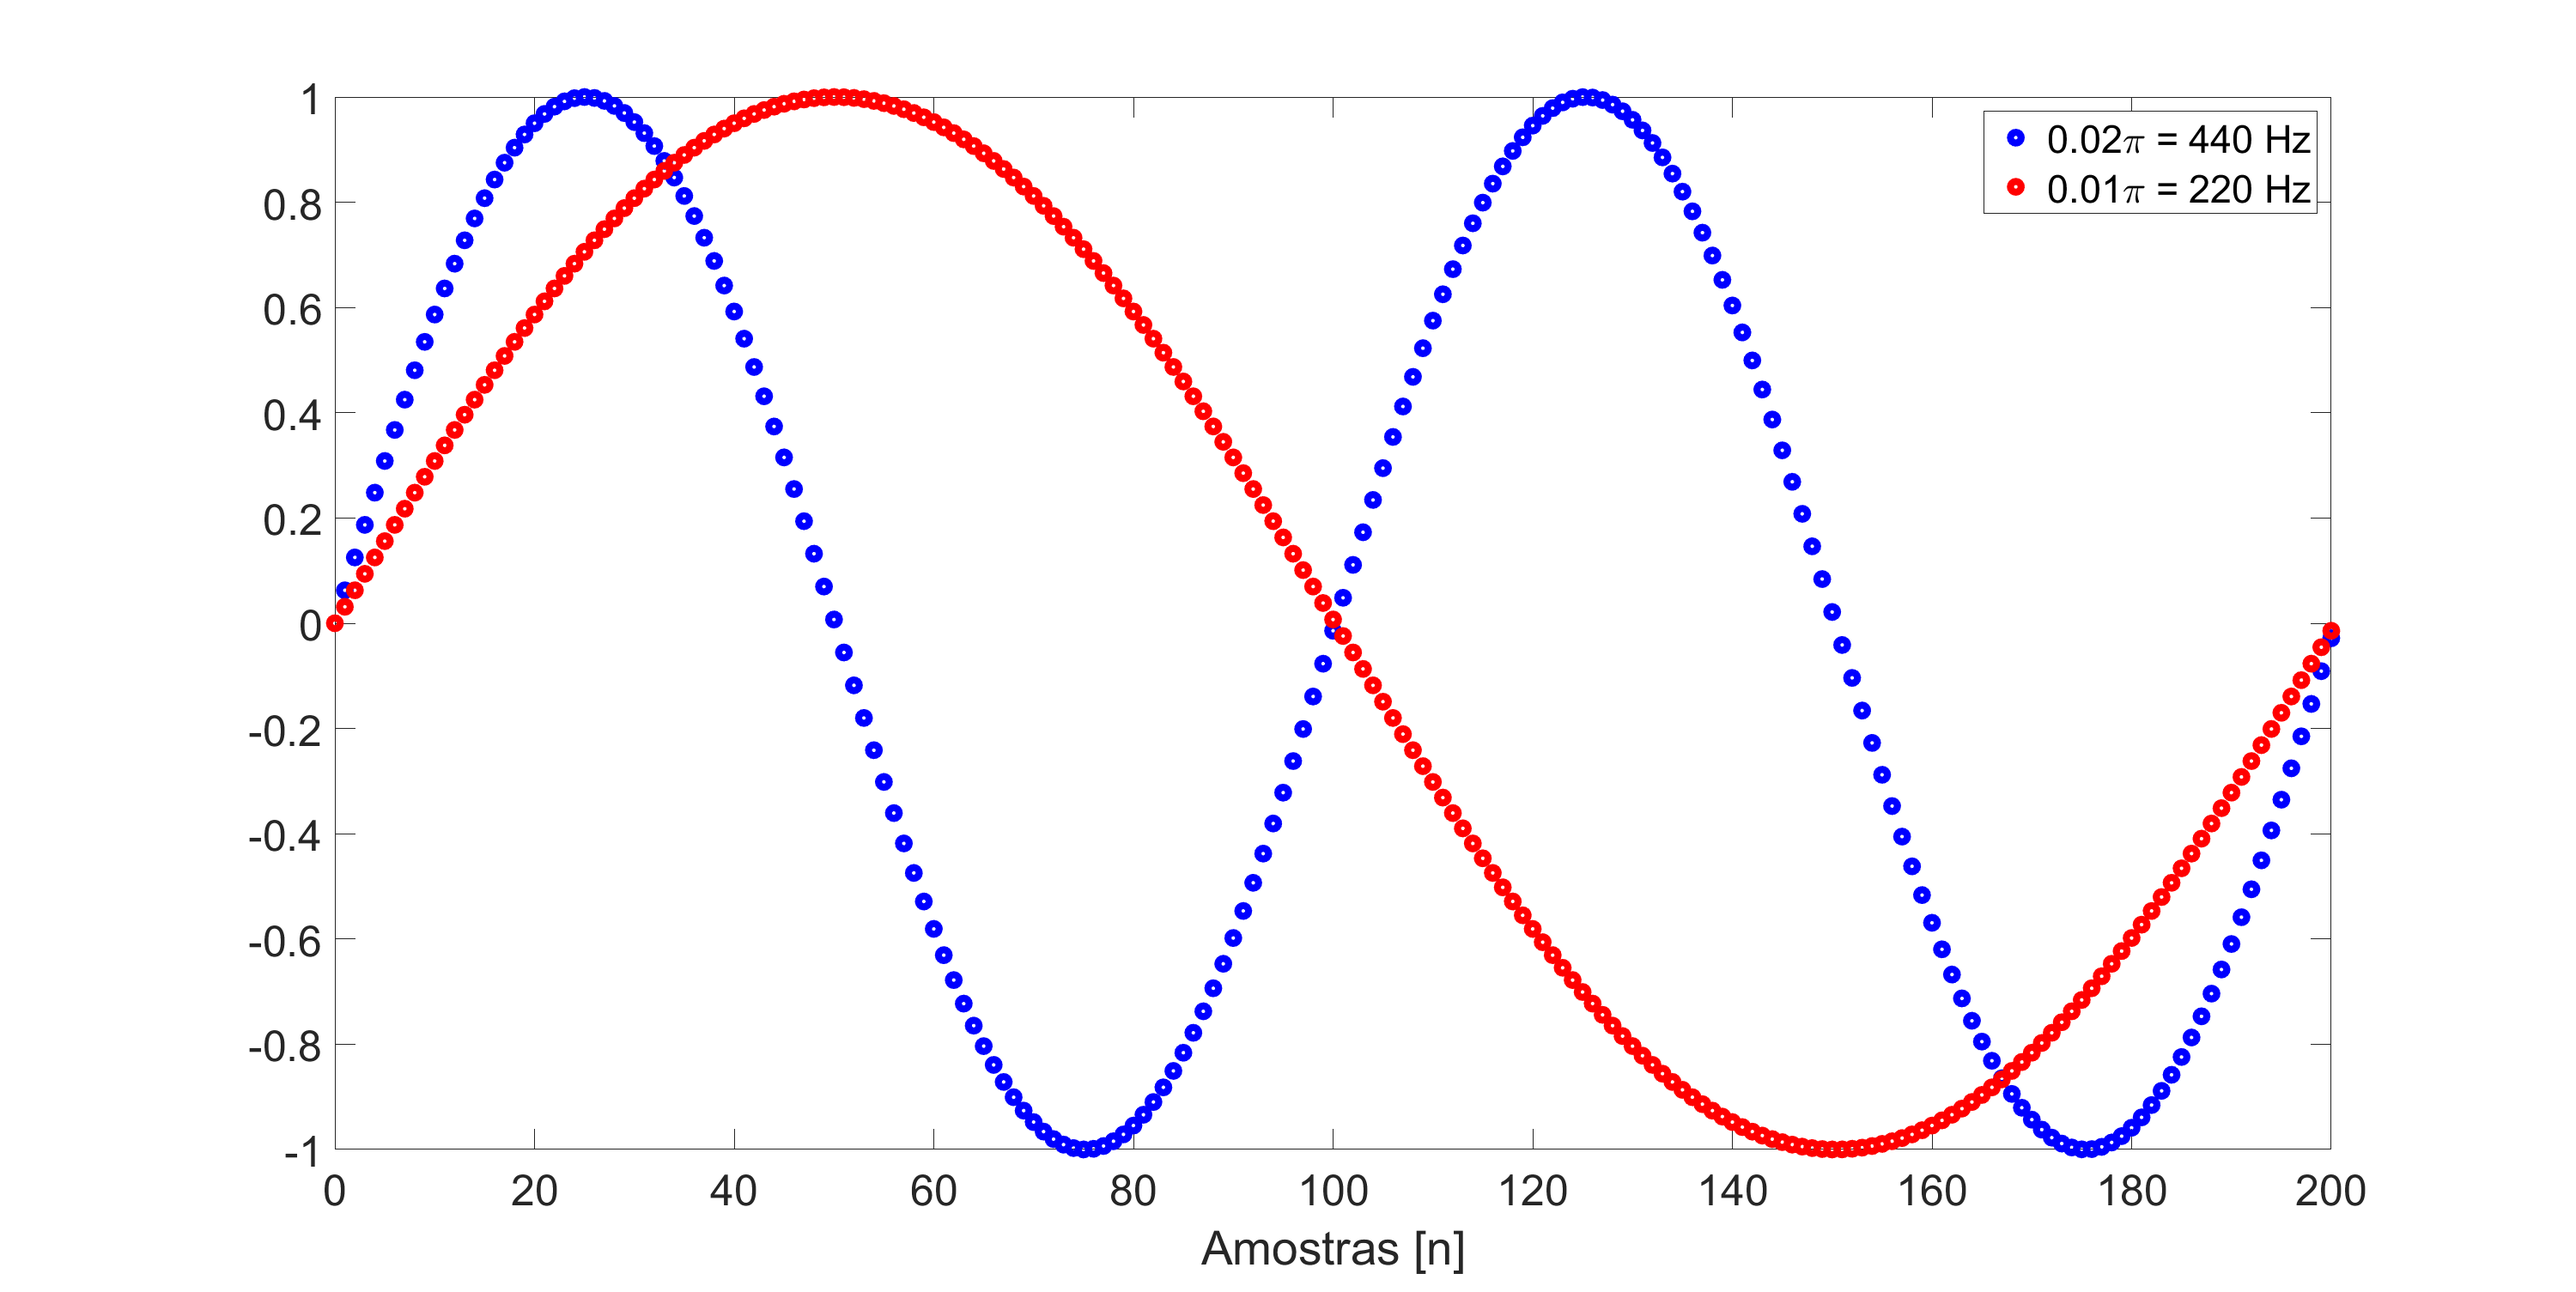
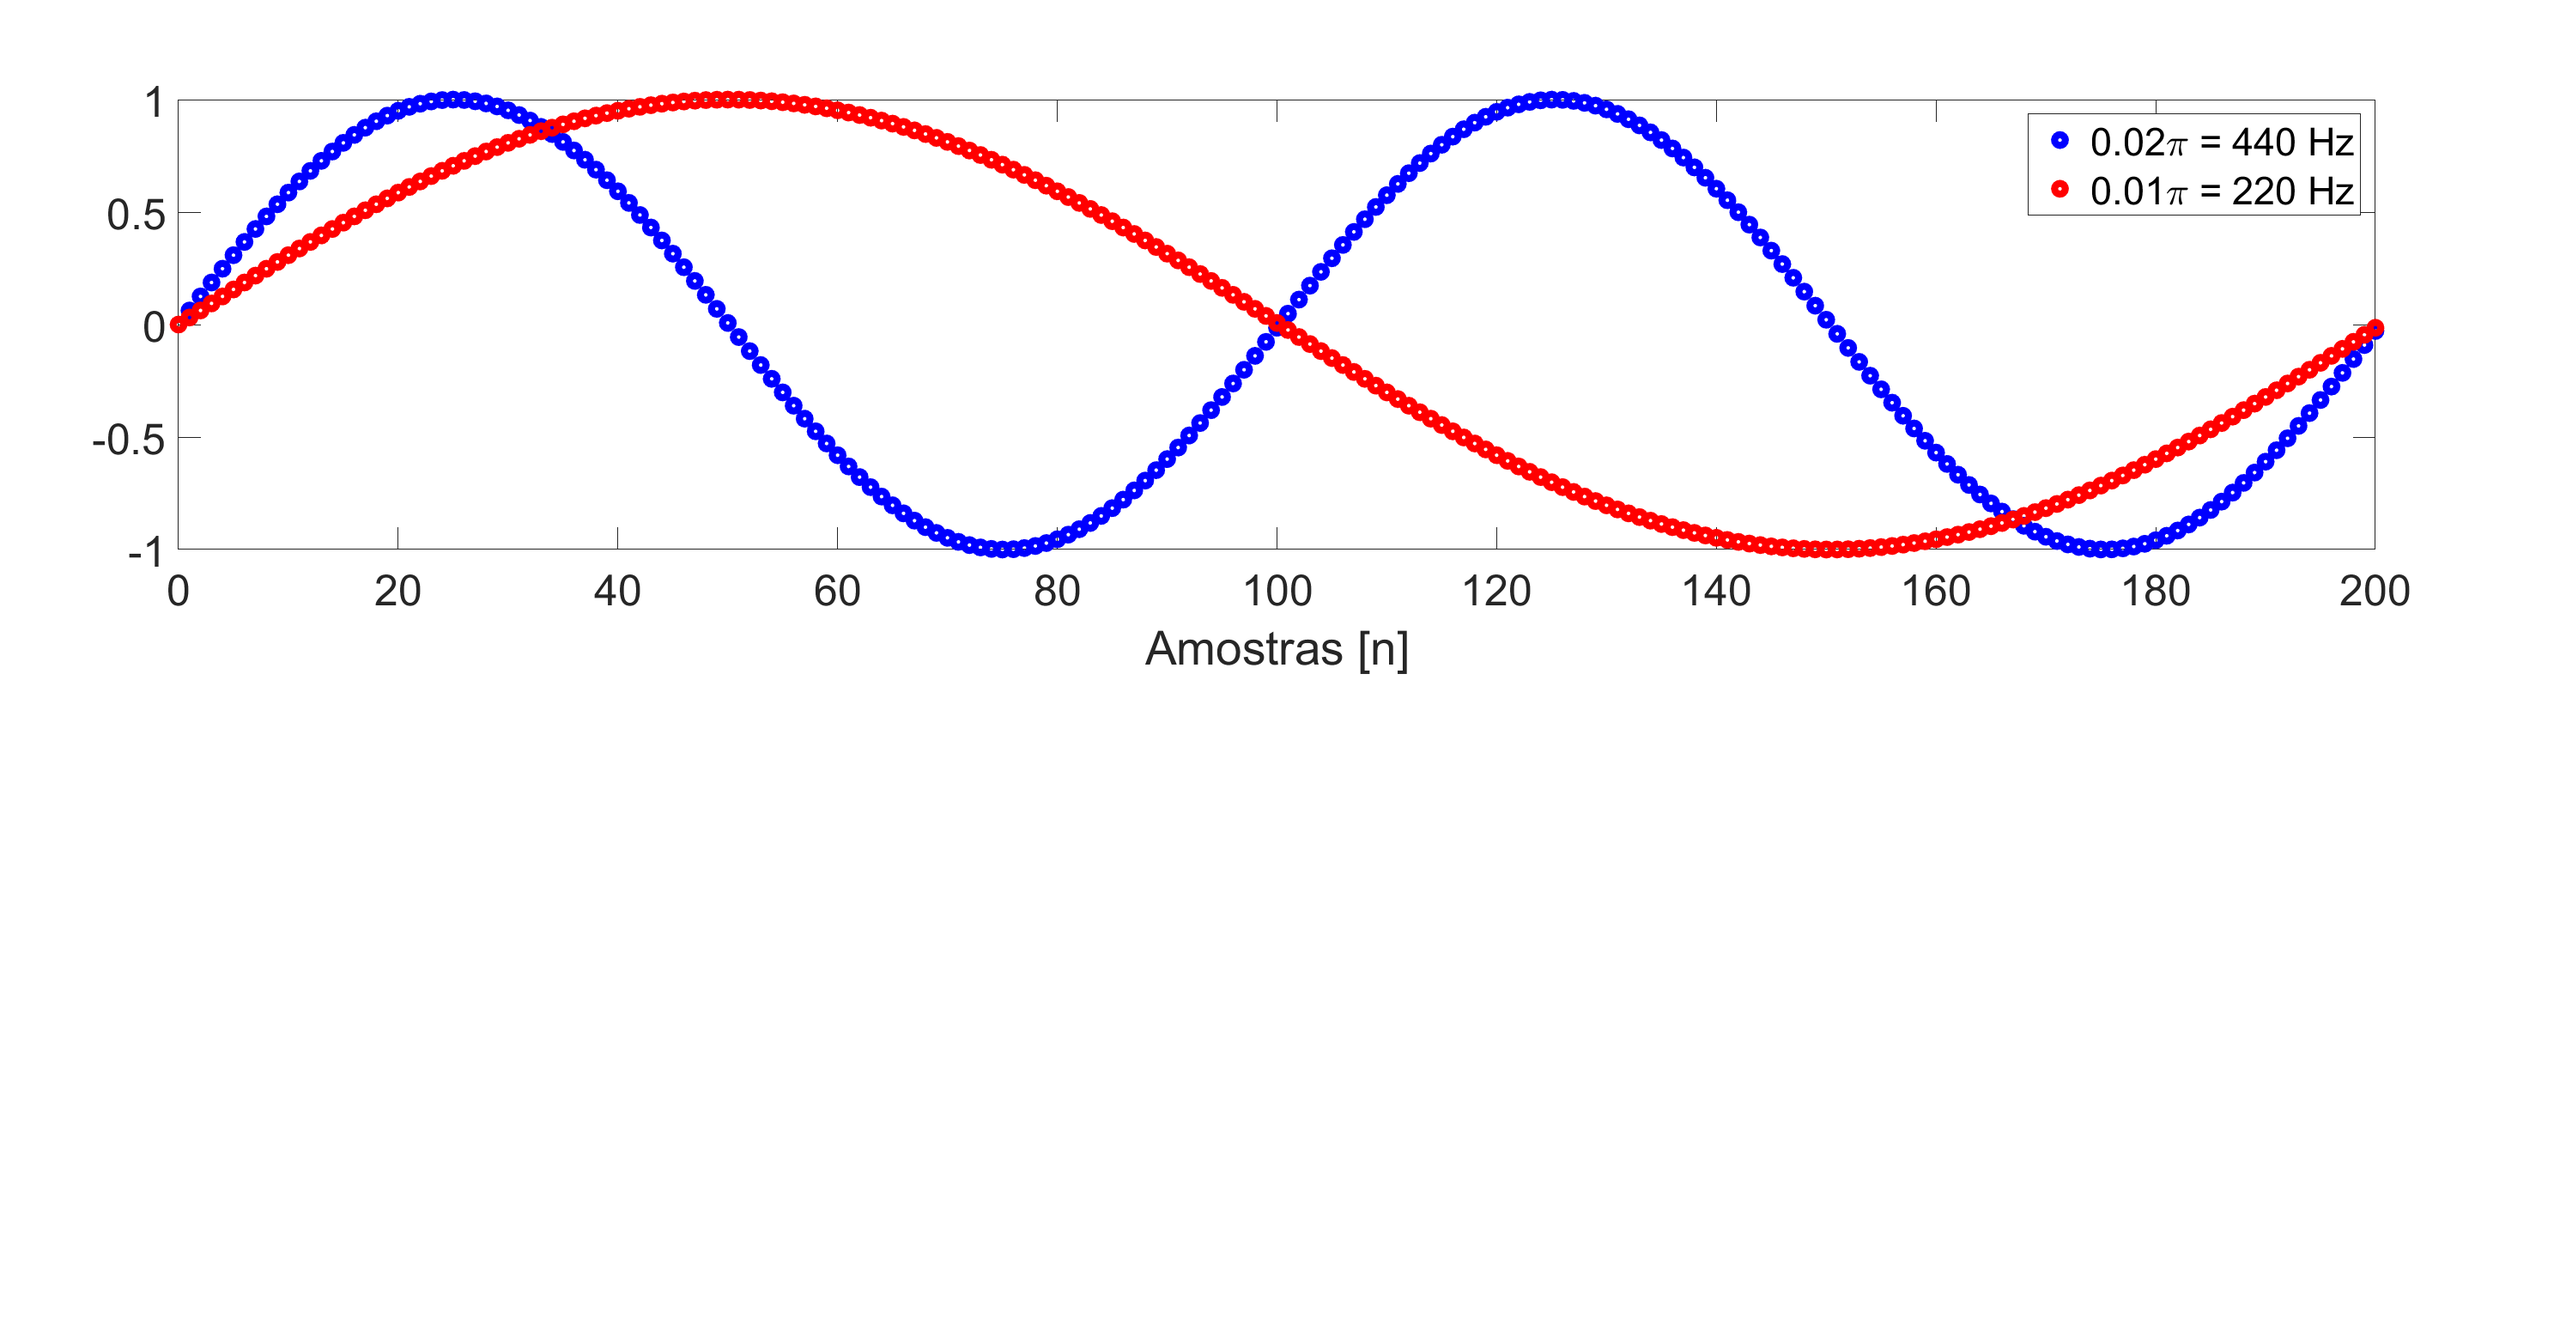
Avancos no exercico em sala de aula, cria o sinal e realiza a análise espectral

diff --git a/ExemploClasse/Aula_Sala.m b/ExemploClasse/Aula_Sala.m
@@ -1,0 +1,175 @@
+%%%Plot das imagens utilizadas nos slides%%%
+%% Configuracao do plot inicial
+% get(groot,'factory') % Exibe todas as propriedades
+set(groot, 'defaultLineLineWidth', 4);
+set(groot,'defaultLineMarkerSize', 6);
+set(groot,'defaultAxesFontSize',24);
+
+%% Síntese de senos - Exemplo 1
+fs = 44100;
+f1 = 440;
+f2 = 220;
+n = 0:1:200;
+y1 = sin(2*pi*f1/fs.*n);
+y2 = sin(2*pi*f2/fs.*n);
+
+figure(1)
+set(gcf, 'Units', 'Normalized', 'OuterPosition', [0 0 1 1]);
+clf()
+
+tiledlayout(2,1);
+nexttile
+plot(n,y1,'ob')
+hold 
+plot(n,y2,'or')
+xlabel("Amostras [n]")
+legend("0.02\pi = 440 Hz","0.01\pi = 220 Hz")
+saveas(gcf,'Imagens\sinal_introducao.png')
+
+nexttile
+plot(n,y1+y2,'ok')
+xlabel("Amostras [n]")
+
+
+%% Análise Espectral - Exemplo 2
+%Análise janela, número de amostras e número de pontos para o cálculo da
+%DTFT
+%Exemplo 1 - Número pequeno de amostras Aula - 5 Slide 18
+
+    n = (0:1:200); %Apresenta somente um período do sinal L = 200
+    sinal =  sin(2*pi*f1/fs.*n) + sin(2*pi*f2/fs.*n) ;
+    figure(2)
+    plot(sinal,'b')
+    legend("Dimensão do sinal 200")
+%Calculo da DTFT com 256 pontos
+    N_fft = 256;
+
+    X_axis_fs = (0:N_fft-1).* (fs/N_fft);
+    X_axis_wc = (0:N_fft-1).* (2/N_fft);
+    
+    Mag_resp = abs( fft( sinal.* hanning(length(sinal) )', N_fft) );
+    Mag_resp = Mag_resp/max(Mag_resp);
+    
+    figure(2);
+    set(gcf, 'Units', 'Normalized', 'OuterPosition', [0 0 1 1]);
+    
+    clf()
+    t = tiledlayout(1,1);
+    ax1 = axes(t);
+    plot(ax1,X_axis_wc,Mag_resp','ob')
+    hold 
+    axis([0,1000*2/fs,0,1])
+    %ylim([-0.1 1.1])
+    ax1.XAxisLocation = 'bottom';
+    xlabel("\omega")
+    
+    ax2 = axes(t);
+    plot(ax2,X_axis_fs,Mag_resp','or')
+    ax2.XAxisLocation = 'top';
+    ax2.YAxisLocation = 'right';
+    ax2.Color = 'none';
+    xlabel("frequências [Hz]")
+    title('DTFT')
+    axis([0,1000,0,1])
+
+% Aumento no número de pontos da DTFT, inserindo zeros no final do sinal,
+% aumento para 4096 pontos.
+    N_fft = 2^12;
+    
+    X_axis_fs = (0:N_fft-1).* (fs/N_fft);
+    
+    Mag_resp = abs( fft( sinal.* hanning(length(sinal) )', N_fft) );
+    Mag_resp = Mag_resp/max(Mag_resp);
+    
+    figure(2);
+    
+    clf()
+    title('DTFT')
+    plot(X_axis_fs,Mag_resp','or')
+    xlabel("frequências [Hz]")
+    axis([0,1000,0,1])
+    %Obs : Não conseguimos identificar corretamente as frequências do meu
+    %sinal f1 e f2, mesmo aumentando o número de pontos para o cálculo da
+    %DTFT. PROBLEMA - o comprimento do sinal está pequeno e está ocorrendo 
+    %o vazamento espectral, dessa forma, necessitamos gerar um sinal maior
+
+
+%Aumento no comprimento do sinal L de 200 para 800 
+    figure(3)
+    set(gcf, 'Units', 'Normalized', 'OuterPosition', [0 0 1 1]);
+
+    clf()
+    title('Sinal tempo discreto')
+    sinal =  sin(2*pi*f1/fs.*(0:200)) + sin(2*pi*f2/fs.*(0:200)) ;
+    plot(sinal','b')
+    pause(2)
+    for aux1 = 201:1:801
+        n = (0:1:aux1);
+        sinal(1,1:aux1+1)  =  sin(2*pi*f1/fs.*n) + sin(2*pi*f2/fs.*n) ;
+        plot(sinal,'b')
+        drawnow
+    end
+
+%Calculo da DTFT L = 800 N = 4096 amostras
+    N_fft = 2^12;
+    
+    X_axis_fs = (0:N_fft-1).* (fs/N_fft);
+    
+    Mag_resp = abs( fft( sinal.* hanning(length(sinal) )', N_fft) );
+    Mag_resp = Mag_resp/max(Mag_resp);
+    
+    figure(2);
+    
+    clf()
+    title('DTFT')
+    plot(X_axis_fs,Mag_resp','or')
+    xlabel("frequências [Hz]")
+    axis([0,1000,0,1])
+    %Espectro com 2 componentes em 220hz e 440hz
+%% Filtros - Exemplo 3
+%Calculo de um novo sinal com frequências 220, 330, 440, 550, 2000, 3500, 5000, 10000 e amplitudes
+%normalizadas de [.45 1 .75 .25, 2, 1, 2, 2] e duração de 2.5 s 
+    n = 0:1:fs*2.5; %fs*2.5 é um número inteiro, cuitado se o resultado não for 
+    freq_sinal = [220, 330, 440, 550, 1980, 2970, 4620, 10780];
+    mag_freq_sig = [.45 1 .75 .25, 4, 1, 2];
+    sinal = zeros(1,length(n));
+    for aux1 = 1:length(mag_freq_sig)
+        sinal = sinal + sin(2*pi*freq_sinal(aux1)/fs.*n).*mag_freq_sig(aux1);
+    end
+    sinal = sinal /max(sinal);
+
+    figure(1)
+    clf()
+    subplot(2,1,1)
+    title("Sinal no tempo")
+    stem(sinal,'ob')
+    axis([0,401,-1,1])
+    subplot(2,1,2)
+    title("Sinal no tempo")
+    plot(sinal)
+    axis([0,401,-1,1])
+    
+    %DTFT do sinal 
+    N_fft = 2^15;
+    sinal_seg = sinal(1,1:7*401);
+    X_axis_fs = (0:N_fft-1).* (fs/N_fft);
+    
+    Mag_resp = abs( fft( sinal_seg.* hanning(length(sinal_seg) )', N_fft) );
+    Mag_resp = Mag_resp/max(Mag_resp);
+    
+    figure(2);
+    
+    clf()
+    title('DTFT')
+    plot(X_axis_fs,Mag_resp','ob')
+    xlabel("frequências [Hz]")
+    axis([0,15000,0,1])
+    sound(sinal, fs)
+
+%Desenho de um filtro passa baixas - FIR. Comando 
+
+%Desenho de um filtro passa altas - FIR
+
+
+
+

diff --git a/ExemploClasse/create_hamonic_signal.m b/ExemploClasse/create_hamonic_signal.m
@@ -1,9 +1,9 @@
 function harmonic_signal = create_hamonic_signal(fundamental_frequency, fs, signal_size)
     n = 0:1:signal_size-1;
-    harmonic_signal = 2*sin(2*pi*fundamental_frequency/fs.*n);
+    harmonic_signal = sin(2*pi*fundamental_frequency/fs.*n);
     aux1 = 2;
     while(2*fundamental_frequency/fs*aux1<1)
-        harmonic_signal = harmonic_signal+sin(2*pi*aux1*fundamental_frequency/fs.*n);
+        harmonic_signal = harmonic_signal+(1/.99)^aux1*sin(2*pi*aux1*fundamental_frequency/fs.*n);
         aux1 = aux1 + 1;
     end
     harmonic_signal = harmonic_signal/max(harmonic_signal);
